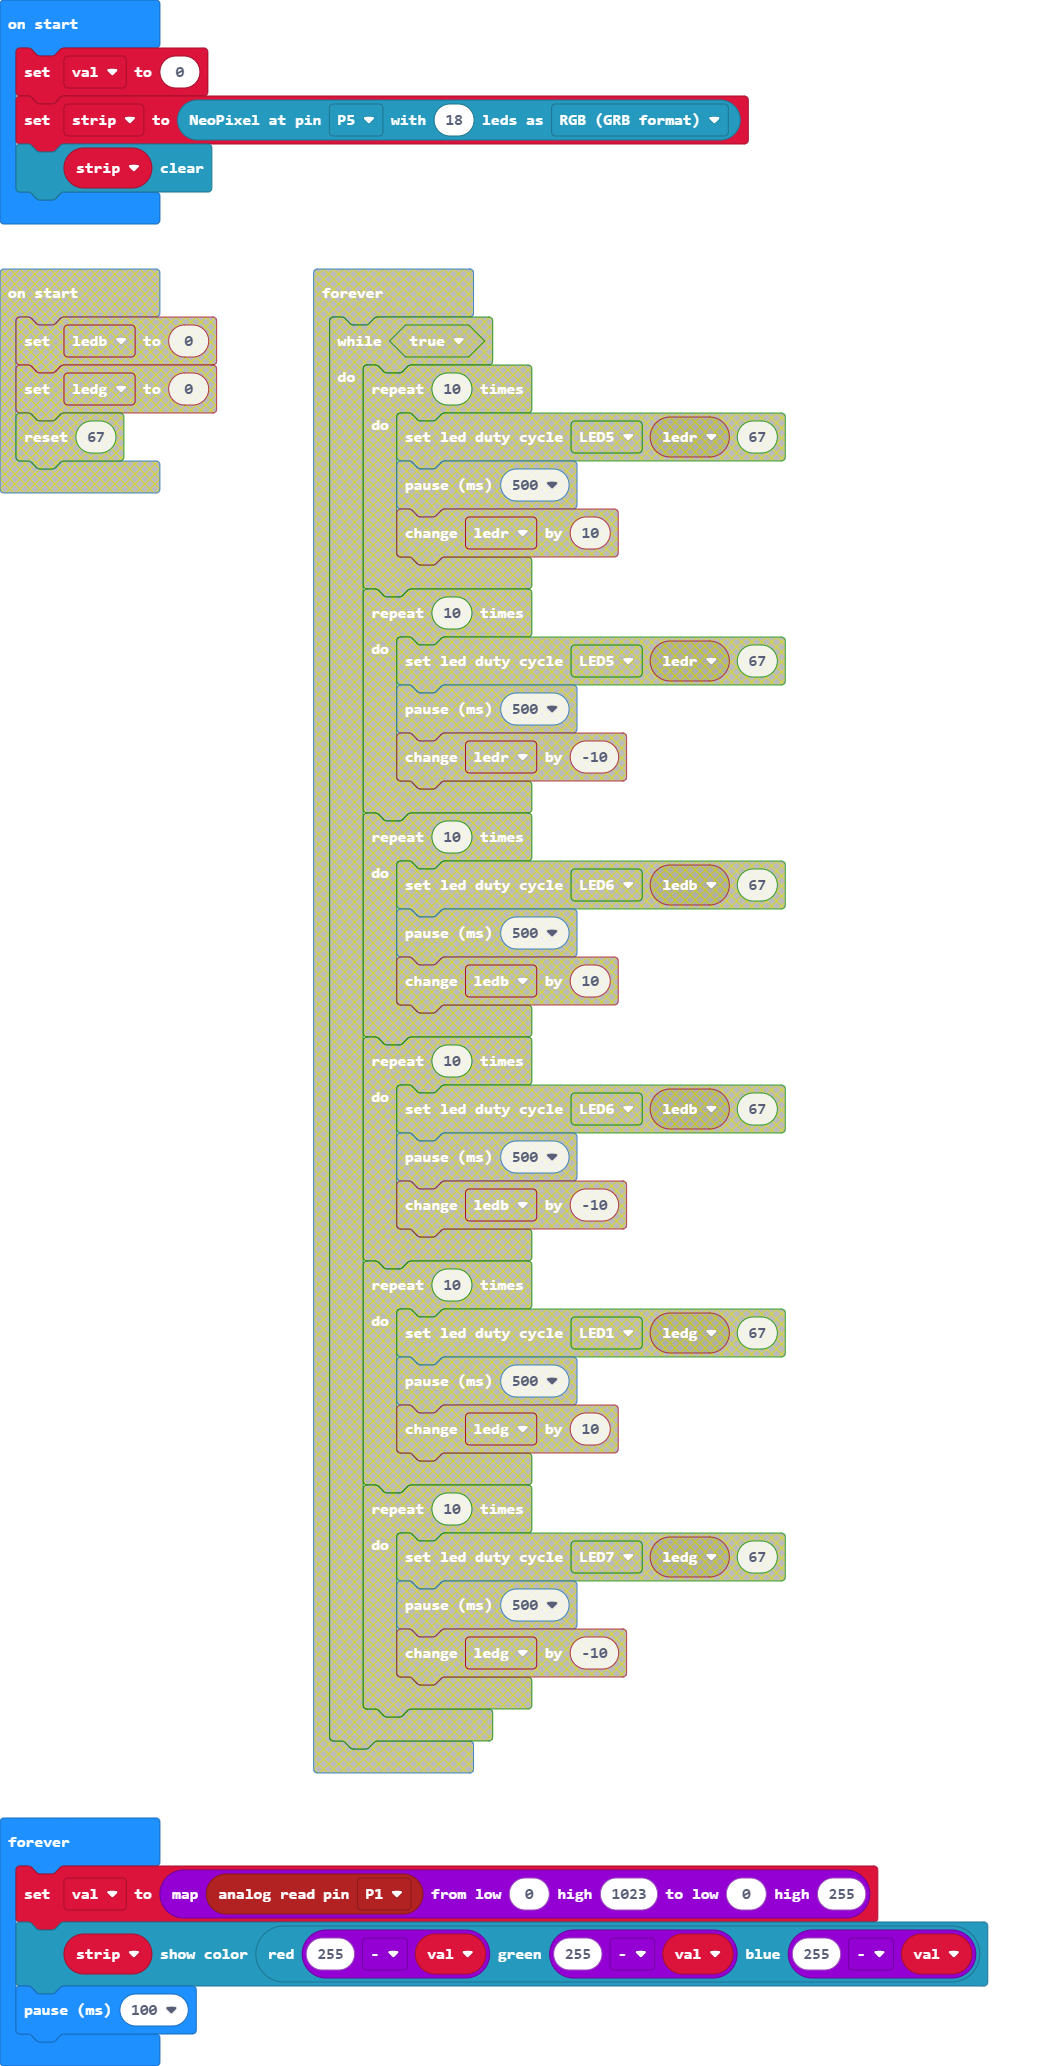
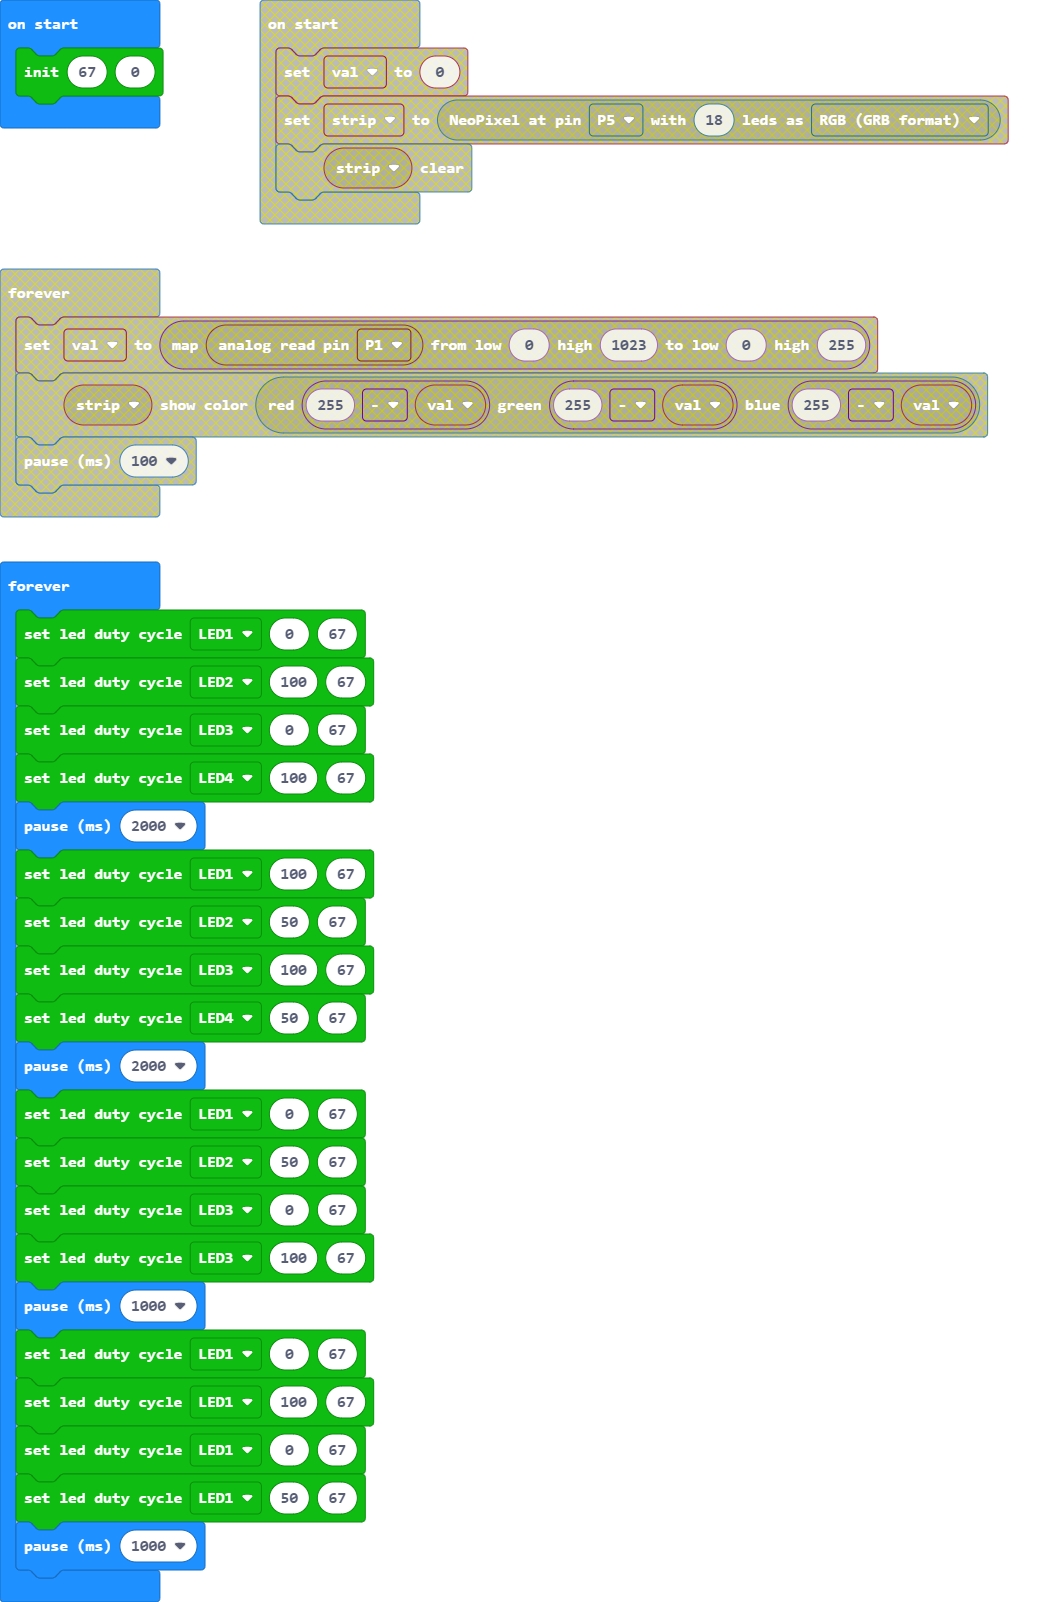
wheels

diff --git a/main.ts b/main.ts
@@ -1,8 +1,23 @@
-let val = 0
-let strip = neopixel.create(DigitalPin.P5, 18, NeoPixelMode.RGB)
-strip.clear()
+PCA9685.init(67, 0)
 basic.forever(function () {
-    val = Math.map(pins.analogReadPin(AnalogPin.P1), 0, 1023, 0, 255)
-    strip.showColor(neopixel.rgb(255 - val, 255 - val, 255 - val))
-    basic.pause(100)
+    PCA9685.setLedDutyCycle(PCA9685.LEDNum.LED1, 0, 67)
+    PCA9685.setLedDutyCycle(PCA9685.LEDNum.LED2, 100, 67)
+    PCA9685.setLedDutyCycle(PCA9685.LEDNum.LED3, 0, 67)
+    PCA9685.setLedDutyCycle(PCA9685.LEDNum.LED4, 100, 67)
+    basic.pause(2000)
+    PCA9685.setLedDutyCycle(PCA9685.LEDNum.LED1, 100, 67)
+    PCA9685.setLedDutyCycle(PCA9685.LEDNum.LED2, 50, 67)
+    PCA9685.setLedDutyCycle(PCA9685.LEDNum.LED3, 100, 67)
+    PCA9685.setLedDutyCycle(PCA9685.LEDNum.LED4, 50, 67)
+    basic.pause(2000)
+    PCA9685.setLedDutyCycle(PCA9685.LEDNum.LED1, 0, 67)
+    PCA9685.setLedDutyCycle(PCA9685.LEDNum.LED2, 50, 67)
+    PCA9685.setLedDutyCycle(PCA9685.LEDNum.LED3, 0, 67)
+    PCA9685.setLedDutyCycle(PCA9685.LEDNum.LED3, 100, 67)
+    basic.pause(1000)
+    PCA9685.setLedDutyCycle(PCA9685.LEDNum.LED1, 0, 67)
+    PCA9685.setLedDutyCycle(PCA9685.LEDNum.LED1, 100, 67)
+    PCA9685.setLedDutyCycle(PCA9685.LEDNum.LED1, 0, 67)
+    PCA9685.setLedDutyCycle(PCA9685.LEDNum.LED1, 50, 67)
+    basic.pause(1000)
 })
